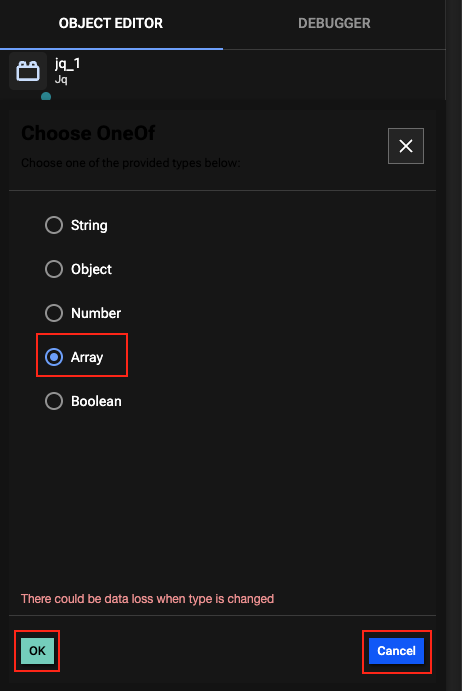
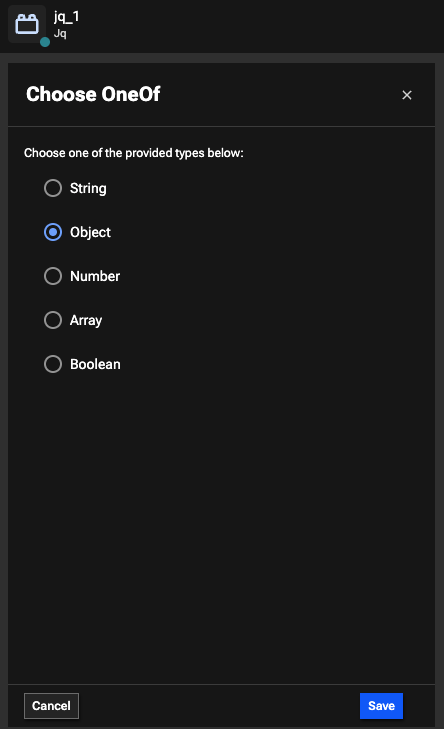
concert 2.0.0

diff --git a/labs/Lab7-managing-resilience-using-concert-workflow.md b/labs/Lab7-managing-resilience-using-concert-workflow.md
@@ -18,7 +18,6 @@ We will use the 2 images that you have build in lab4.
   - [Objective](#objective)
   - [Prerequisite](#prerequisite)
   - [Content](#content)
-  - [Activate the Resilience](#activate-the-resilience)
   - [Import Resilience data using a workflow](#import-resilience-data-using-a-workflow)
     - [Resilience library and a Resilience profile](#resilience-library-and-a-resilience-profile)
     - [Import a resilience workflow](#import-a-resilience-workflow)
@@ -26,23 +25,6 @@ We will use the 2 images that you have build in lab4.
     - [Complete the resilience workflow previously imported](#complete-the-resilience-workflow-previously-imported)
     - [Run the workflow to populate you application resilience posture](#run-the-workflow-to-populate-you-application-resilience-posture)
   - [Resilience Management](#resilience-management)
-
-## Activate the Resilience
-
-1. From Concert UI, navigate to **Administration->Settings**
-2. Select **Miscellaneous** tab
-3. Enable resilience
-
-  <br><img src="../images/enable_resilience.png" alt="drawing" width="600"/>
-
-You must also enable resilience for your application:
-
-1. From Concert UI, navigate to **Inventory->Applications**
-2. Select your **hr-application**
-3. Select **Settings** tab
-4. In Resilience menu, enable resilience
-
-  <br><img src="../images/enable_resilience_app.png" alt="drawing" width="600"/>
 
 ## Import Resilience data using a workflow
 
@@ -70,7 +52,7 @@ The next steps consists in creating a workflow to get images metrics and upload 
 
 You will start to import a pre-defined workflow available [here](../files/workflows_lab7).   
 
-1. From Concert UI, navigate to **Workflows->Manage**
+1. From burger menu, navigate to **Workflows->Workflow**
 2. Click the **Import** button (top right of the window) and select the **concert_v2001_absolute_Resilience** workflow from your laptop
 
 
@@ -97,11 +79,10 @@ To be able to ssh your concert VM, you need to define an SSH Authentication:
 You will now create a workflow that will be used as a sub-worflow of **docker_images_metrics** workflow in order to define a new metric: the percentage of big images.
 The aim of this workflow is to extract the image size from a json object that have the format of the result of the `podman inspect` command
 
-1. From Concert UI, navigate to **Workflows->Manage**
-2. Navigate in **Resilience** folder
-3. Click the button **Create workflow** (top right of the window)
-4. Call it **docker_images_size** and click **Create** button
-5. Define your variables:
+1. From burger menu, navigate to **Workflows->Workflow**
+2. Click the button **Create workflow** (top right of the window)
+3. Call it **docker_images_size** and click **Create** button
+4. Define your variables:
 
 | Name         | Type   | Default Value                                                  | Selected box  |
 | :----------- | :----- | :------------------------------------------------------------- | :-----------: |
@@ -118,7 +99,7 @@ Then you are going to use a "jq" node in order to extract the size from the **js
 3. From the **Object Editor** that is in the right pane of your window, click on **OneOf>**
     <br><img src="../images/resilience_cw_oneof.png" alt="drawing" width="400"/>
 
-4. Select **Array**, Click **OK** and Click **Cancel**    
+4. Select **Object**, Click **Save** 
     <br><img src="../images/resilience_cw_oneof2.png" alt="drawing" width="400"/>
 
 5. Then select the pencil to set the JSON variable that jq will use as input
@@ -151,7 +132,7 @@ You can now test your workflow:
 
 You are going to complete the empty branch in the main workflow in order to calculate images metrics
 
-1. From Concert UI, navigate to **Workflows->Manage**
+1. From burger menu, navigate to **Workflows->Workflow**
 2. Navigate in **Resilience** folder
 3. Open the **docker_images_metrics** workflow
 4. Scroll the **Split_1** node where you will see an empty  **Branch-2**
@@ -176,10 +157,10 @@ You are going to complete the empty branch in the main workflow in order to calc
 
 Before running your flow, you need to modify the value of these variables:
 
-| Name            | Value                                                                                            |
-| :-------------- | :----------------------------------------------------------------------------------------------- |
-| concert_host    | The IP address of your Concert VM                                                                |
-| concert_api_key | The API key of your concert installation (can be retrieved from your env.sh file create in lab1) |
+| Name            | Value                                    |
+| :-------------- | :--------------------------------------- |
+| concert_host    | The IP address of your Concert VM        |
+| concert_api_key | The API key of your concert installation |
 
 Now, you can now run your flow.   
 The best to begin is to run it in debug mode and put a breakpoint for example on node **Upload_to_concert** and take a look at the value of your **concert_data** variable

diff --git a/labs/Lab6-managing-compliance-using-concert-workflow.md b/labs/Lab6-managing-compliance-using-concert-workflow.md
@@ -132,7 +132,7 @@ Follow these step to create an IBM Hub - Self Authentication:
 
 6. In the **Start** box, update the value of following variables (keep the "):
 
-- **concert_auth**: "concert_auth"
+- **concert_auth**: "concert-auth"
 - **ssh_authentication**: "concert-vm-ssh"
 
   <br><img src="../images/cw_change_variables.png" alt="drawing" width="600"/>
@@ -150,7 +150,7 @@ The execution of the flow take at least 5 minutes, be patient.
 
 1. Check the ingested data
 
-- When the workflow is finished, navigate to **Administration->Event log** menu and check that the compliance file upload is successfull
+- When the workflow is finished, navigate to **Concert->Administration->Event log** menu and check that the compliance file upload is successfull
   <br><img src="../images/cw_compliance_file_upload.png" alt="drawing" width="600"/>
 
 - Navigate to **Dimensions->Compliance** menu and consult compliance data for your concert VM.
